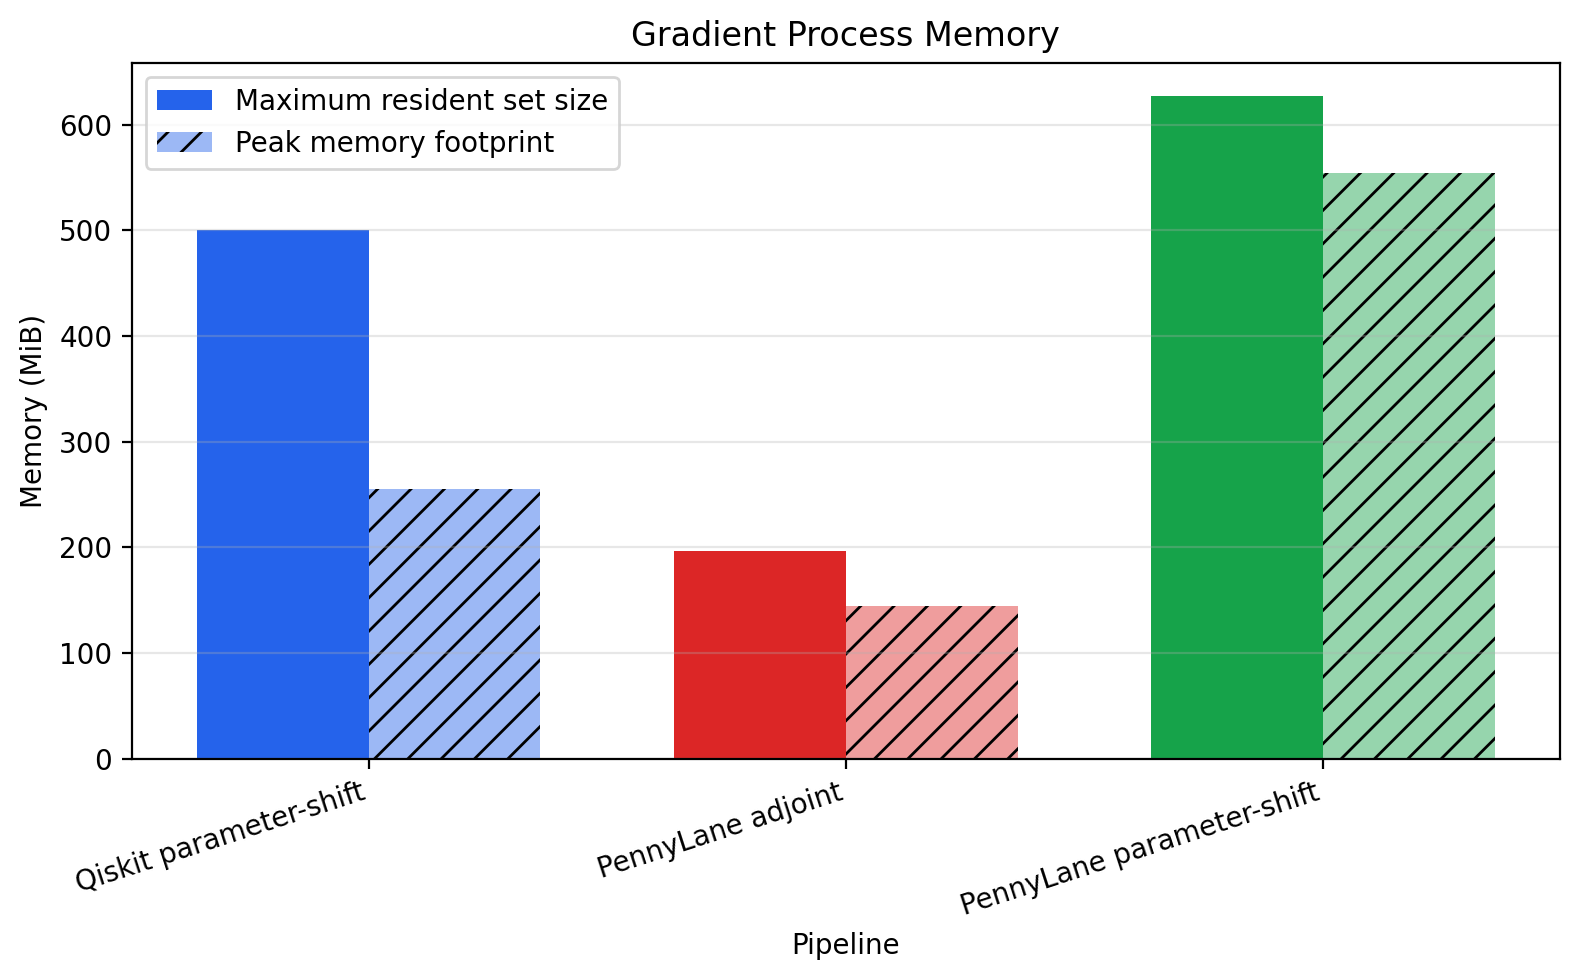
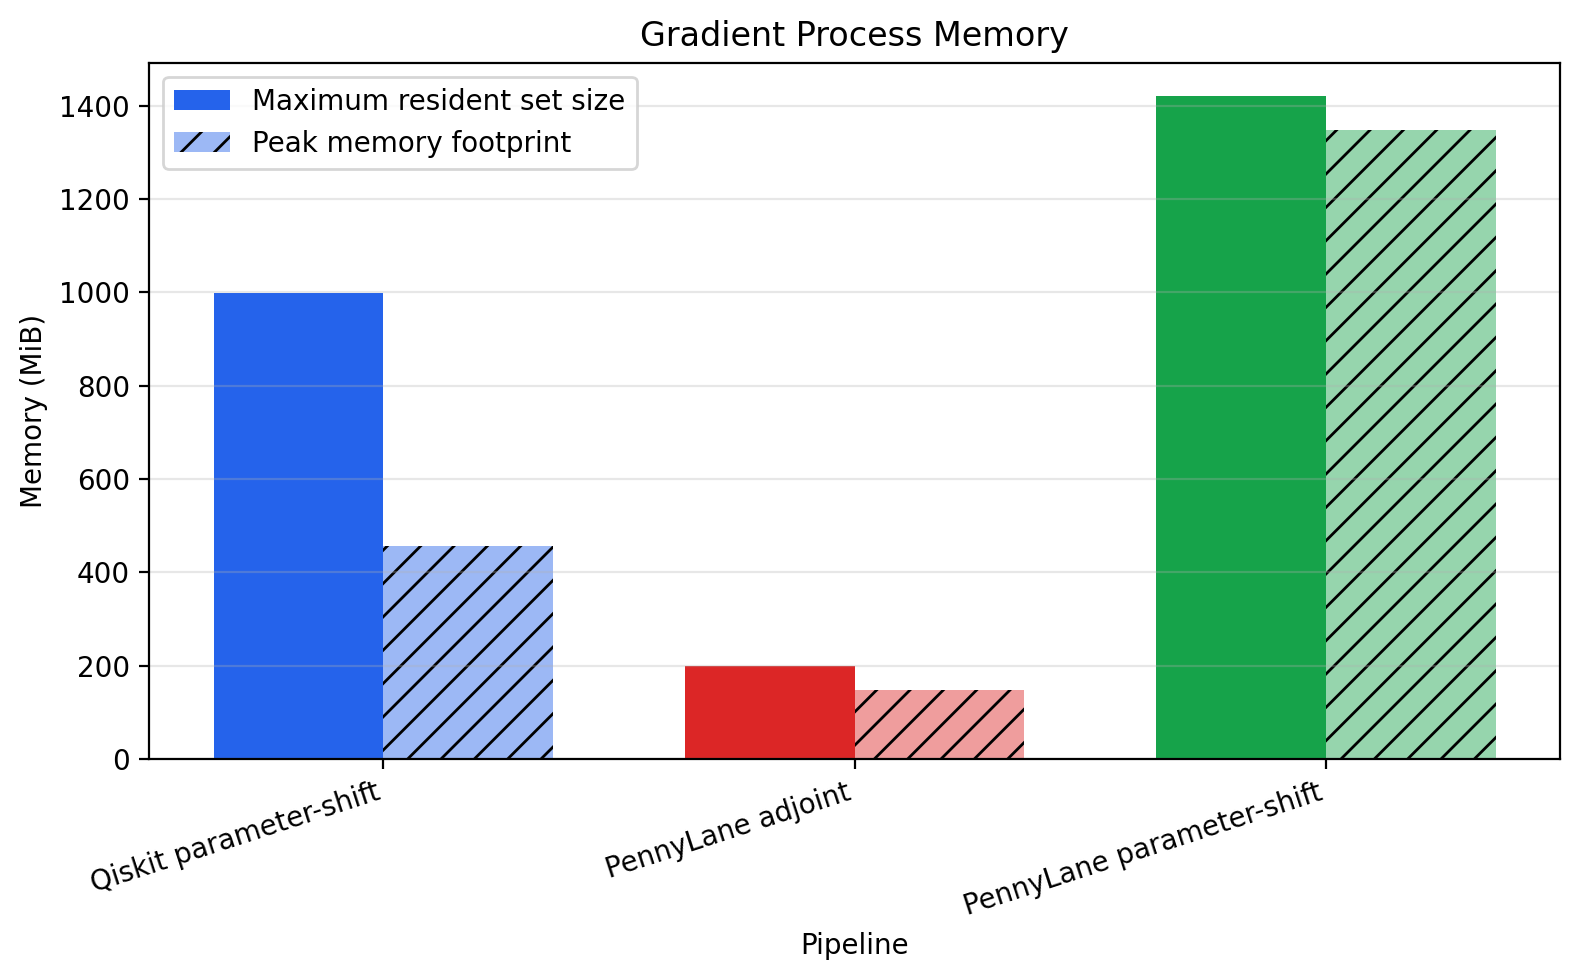
scale to 100 results

diff --git a/plot.py b/plot.py
@@ -32,9 +32,9 @@ TIMING_FILES = {
 }
 
 MEMORY_FILES = {
-    "Qiskit parameter-shift": ROOT / "time_output_qiskit.txt",
-    "PennyLane adjoint": ROOT / "time_output_adjoint.txt",
-    "PennyLane parameter-shift": ROOT / "time_output_pennylane_parameter.txt",
+    "Qiskit parameter-shift": ROOT / "time_qiskit_param_shift.txt",
+    "PennyLane adjoint": ROOT / "time_pennylane_adjoint.txt",
+    "PennyLane parameter-shift": ROOT / "time_pennylane_param_shift.txt",
 }
 
 COLORS = {

diff --git a/gradient_pennylane_adjoint.py b/gradient_pennylane_adjoint.py
@@ -7,7 +7,7 @@ from pennylane import numpy as pnp
 
 
 NUM_QUBITS = 4
-REP_SCALES = [1, 10, 20, 30, 40, 50, 60]
+REP_SCALES = [1, 10, 20, 30, 40, 50, 60, 70, 80, 90, 100]
 N_TRIALS = 5
 DIFF_METHOD = "adjoint"
 RESULTS_FILE = "gradient_pennylane_adjoint_results.csv"

diff --git a/gradient_pennylane_param_shift.py b/gradient_pennylane_param_shift.py
@@ -7,7 +7,7 @@ from pennylane import numpy as pnp
 
 
 NUM_QUBITS = 4
-REP_SCALES = [1, 10, 20, 30, 40, 50, 60]
+REP_SCALES = [1, 10, 20, 30, 40, 50, 60, 70, 80, 90, 100]
 N_TRIALS = 5
 DIFF_METHOD = "parameter-shift"
 RESULTS_FILE = "gradient_pennylane_param_shift_results.csv"

diff --git a/gradient_qiskit_param_shift.py b/gradient_qiskit_param_shift.py
@@ -9,7 +9,7 @@ from qiskit_machine_learning.gradients import ParamShiftEstimatorGradient
 
 
 NUM_QUBITS = 4
-REP_SCALES = [1, 10, 20, 30, 40, 50, 60]
+REP_SCALES = [1, 10, 20, 30, 40, 50, 60, 70, 80, 90, 100]
 N_TRIALS = 5
 RESULTS_FILE = "gradient_qiskit_param_shift_results.csv"
 